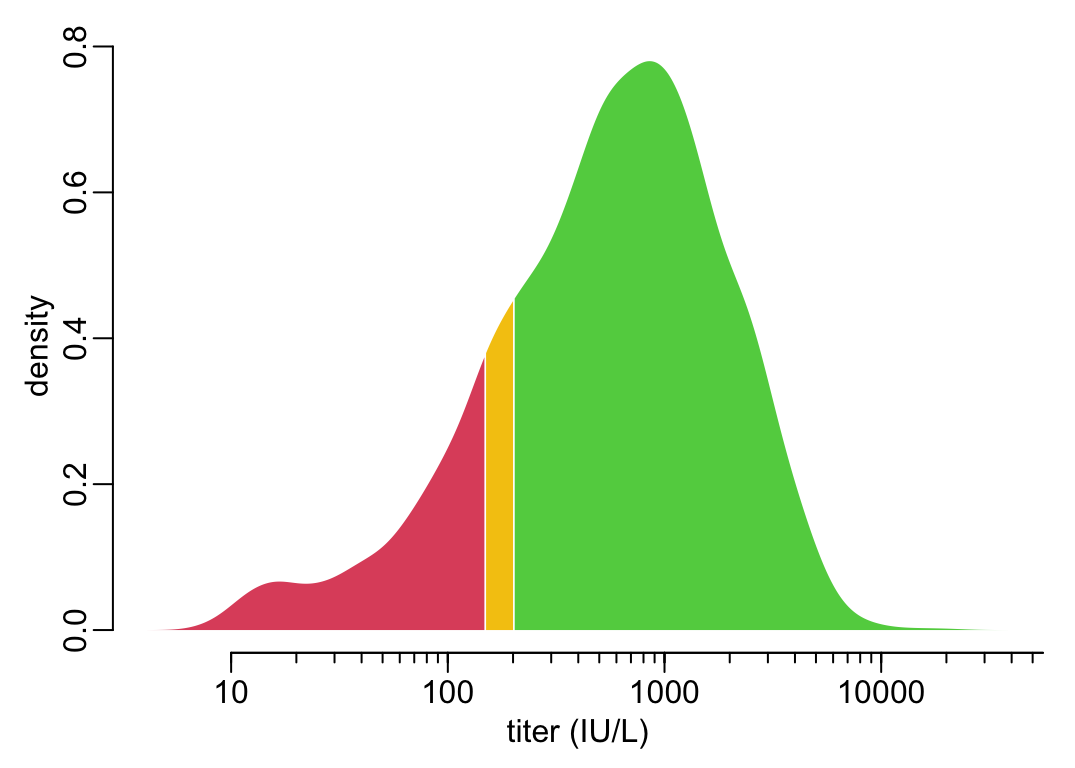
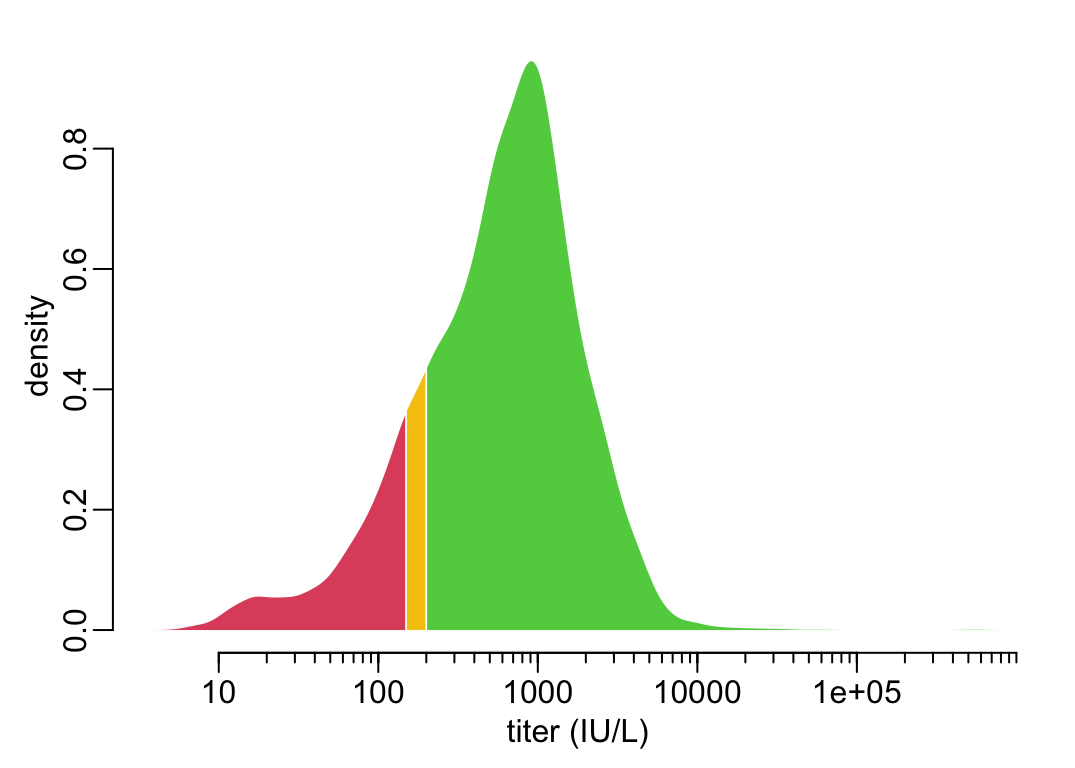
Distributions of titers for the whole dataset

diff --git a/index.html b/index.html
@@ -977,15 +977,15 @@ Figure&nbsp;5: Proportion of female (pink) and male (blue) samples as a function
 </div>
 <p>Plotting the distribution of all the titers, across the 3 time points and the 10 sites:</p>
 <div class="cell" data-layout-align="center">
-<div class="code-copy-outer-scaffold"><div class="sourceCode cell-code" id="cb80"><pre class="sourceCode r code-with-copy"><code class="sourceCode r"><span id="cb80-1"><a href="#cb80-1" aria-hidden="true" tabindex="-1"></a><span class="fu">plot_titers</span>(south)</span></code></pre></div><button title="Copy to Clipboard" class="code-copy-button"><i class="bi"></i></button></div>
+<div class="code-copy-outer-scaffold"><div class="sourceCode cell-code" id="cb80"><pre class="sourceCode r code-with-copy"><code class="sourceCode r"><span id="cb80-1"><a href="#cb80-1" aria-hidden="true" tabindex="-1"></a><span class="fu">plot_titers</span>(dataset)</span></code></pre></div><button title="Copy to Clipboard" class="code-copy-button"><i class="bi"></i></button></div>
 <div class="cell-output-display">
-<div id="fig-distribution_titers" class="quarto-float quarto-figure quarto-figure-center anchored" width="537.6" data-fig-align="center">
+<div id="fig-distribution_titers" class="quarto-float quarto-figure quarto-figure-center anchored" data-fig-align="center">
 <figure class="quarto-float quarto-float-fig figure">
 <div aria-describedby="fig-distribution_titers-caption-0ceaefa1-69ba-4598-a22c-09a6ac19f8ca">
-<img src="index_files/figure-html/fig-distribution_titers-1.png" id="fig-distribution_titers" class="img-fluid quarto-figure quarto-figure-center anchored figure-img" width="537">
+<img src="index_files/figure-html/fig-distribution_titers-1.png" class="img-fluid quarto-figure quarto-figure-center figure-img" width="537">
 </div>
-<figcaption class="quarto-float-caption-bottom quarto-float-caption quarto-float-fig quarto-uncaptioned" id="fig-distribution_titers-caption-0ceaefa1-69ba-4598-a22c-09a6ac19f8ca">
-Figure&nbsp;6
+<figcaption class="quarto-float-caption-bottom quarto-float-caption quarto-float-fig" id="fig-distribution_titers-caption-0ceaefa1-69ba-4598-a22c-09a6ac19f8ca">
+Figure&nbsp;6: Distribution of titers across all sites and time points. Colors show negative (red), equivocal (orange) and positive (green).
 </figcaption>
 </figure>
 </div>
@@ -993,16 +993,16 @@ Figure&nbsp;6
 </div>
 <p>The corresponding proportions in each of the 3 categories of titer values are the following:</p>
 <div class="cell" data-layout-align="center">
-<div class="code-copy-outer-scaffold"><div class="sourceCode cell-code" id="cb81"><pre class="sourceCode r code-with-copy"><code class="sourceCode r"><span id="cb81-1"><a href="#cb81-1" aria-hidden="true" tabindex="-1"></a>south <span class="sc">|&gt;</span> </span>
+<div class="code-copy-outer-scaffold"><div class="sourceCode cell-code" id="cb81"><pre class="sourceCode r code-with-copy"><code class="sourceCode r"><span id="cb81-1"><a href="#cb81-1" aria-hidden="true" tabindex="-1"></a>dataset <span class="sc">|&gt;</span> </span>
 <span id="cb81-2"><a href="#cb81-2" aria-hidden="true" tabindex="-1"></a>  <span class="fu">group_by</span>(conclusion) <span class="sc">|&gt;</span> </span>
 <span id="cb81-3"><a href="#cb81-3" aria-hidden="true" tabindex="-1"></a>  <span class="fu">tally2</span>()</span></code></pre></div><button title="Copy to Clipboard" class="code-copy-button"><i class="bi"></i></button></div>
 <div class="cell-output cell-output-stdout">
 <pre><code># A tibble: 3 × 3
   conclusion     n  prop
   &lt;chr&gt;      &lt;int&gt; &lt;dbl&gt;
-1 Equi         297  5.33
-2 Neg          879 15.8 
-3 Pos         4397 78.9 </code></pre>
+1 Equi         453  4.90
+2 Neg         1290 13.9 
+3 Pos         7510 81.2 </code></pre>
 </div>
 </div>
 <p>The distributions of all the titers across the 10 sites for each time point separately:</p>
@@ -1010,19 +1010,19 @@ Figure&nbsp;6
 <div class="code-copy-outer-scaffold"><div class="sourceCode cell-code" id="cb83"><pre class="sourceCode r code-with-copy"><code class="sourceCode r"><span id="cb83-1"><a href="#cb83-1" aria-hidden="true" tabindex="-1"></a>timepoints <span class="ot">&lt;-</span> <span class="fu">c</span>(<span class="fu">paste</span>(<span class="st">"Dec"</span>, <span class="fu">c</span>(<span class="dv">2019</span>, <span class="dv">2022</span>)), <span class="st">"Apr 2024"</span>)</span>
 <span id="cb83-2"><a href="#cb83-2" aria-hidden="true" tabindex="-1"></a></span>
 <span id="cb83-3"><a href="#cb83-3" aria-hidden="true" tabindex="-1"></a>opar <span class="ot">&lt;-</span> <span class="fu">par2</span>(<span class="at">mfrow =</span> <span class="fu">c</span>(<span class="dv">3</span>, <span class="dv">1</span>), <span class="at">plt =</span> <span class="fu">c</span>(.<span class="dv">13</span>, .<span class="dv">97</span>, .<span class="dv">18</span>, .<span class="dv">95</span>))</span>
-<span id="cb83-4"><a href="#cb83-4" aria-hidden="true" tabindex="-1"></a>south <span class="sc">|&gt;</span> </span>
+<span id="cb83-4"><a href="#cb83-4" aria-hidden="true" tabindex="-1"></a>dataset <span class="sc">|&gt;</span> </span>
 <span id="cb83-5"><a href="#cb83-5" aria-hidden="true" tabindex="-1"></a>  <span class="fu">group_by</span>(time_point) <span class="sc">|&gt;</span> </span>
 <span id="cb83-6"><a href="#cb83-6" aria-hidden="true" tabindex="-1"></a>  <span class="fu">group_split</span>() <span class="sc">|&gt;</span> </span>
-<span id="cb83-7"><a href="#cb83-7" aria-hidden="true" tabindex="-1"></a>  <span class="fu">walk2</span>(timepoints, <span class="sc">~</span> <span class="fu">plot_titers</span>(.x, .y, <span class="at">xlim =</span> <span class="fu">c</span>(.<span class="dv">5</span>, <span class="fl">4.5</span>), <span class="at">ylim =</span> <span class="fu">c</span>(<span class="dv">0</span>, .<span class="dv">8</span>)))</span>
+<span id="cb83-7"><a href="#cb83-7" aria-hidden="true" tabindex="-1"></a>  <span class="fu">walk2</span>(timepoints, <span class="sc">~</span> <span class="fu">plot_titers</span>(.x, .y, <span class="at">xlim =</span> <span class="fu">c</span>(.<span class="dv">5</span>, <span class="fl">4.5</span>), <span class="at">ylim =</span> <span class="fu">c</span>(<span class="dv">0</span>, <span class="fl">1.15</span>)))</span>
 <span id="cb83-8"><a href="#cb83-8" aria-hidden="true" tabindex="-1"></a><span class="fu">par</span>(opar)</span></code></pre></div><button title="Copy to Clipboard" class="code-copy-button"><i class="bi"></i></button></div>
 <div class="cell-output-display">
-<div id="fig-distribution_titers_timepoints" class="quarto-float quarto-figure quarto-figure-center anchored" width="376.32" data-fig-align="center">
+<div id="fig-distribution_titers_timepoints" class="quarto-float quarto-figure quarto-figure-center anchored" data-fig-align="center">
 <figure class="quarto-float quarto-float-fig figure">
 <div aria-describedby="fig-distribution_titers_timepoints-caption-0ceaefa1-69ba-4598-a22c-09a6ac19f8ca">
-<img src="index_files/figure-html/fig-distribution_titers_timepoints-1.png" id="fig-distribution_titers_timepoints" class="img-fluid quarto-figure quarto-figure-center anchored figure-img" width="376">
+<img src="index_files/figure-html/fig-distribution_titers_timepoints-1.png" class="img-fluid quarto-figure quarto-figure-center figure-img" width="376">
 </div>
-<figcaption class="quarto-float-caption-bottom quarto-float-caption quarto-float-fig quarto-uncaptioned" id="fig-distribution_titers_timepoints-caption-0ceaefa1-69ba-4598-a22c-09a6ac19f8ca">
-Figure&nbsp;7
+<figcaption class="quarto-float-caption-bottom quarto-float-caption quarto-float-fig" id="fig-distribution_titers_timepoints-caption-0ceaefa1-69ba-4598-a22c-09a6ac19f8ca">
+Figure&nbsp;7: Distribution of titers across all sites for the 3 time points. Colors show negative (red), equivocal (orange) and positive (green).
 </figcaption>
 </figure>
 </div>
@@ -1030,7 +1030,7 @@ Figure&nbsp;7
 </div>
 <p>The corresponding proportions in each of the 3 categories of titer values and for each time point are the following:</p>
 <div class="cell" data-layout-align="center">
-<div class="code-copy-outer-scaffold"><div class="sourceCode cell-code" id="cb84"><pre class="sourceCode r code-with-copy"><code class="sourceCode r"><span id="cb84-1"><a href="#cb84-1" aria-hidden="true" tabindex="-1"></a>south <span class="sc">|&gt;</span> </span>
+<div class="code-copy-outer-scaffold"><div class="sourceCode cell-code" id="cb84"><pre class="sourceCode r code-with-copy"><code class="sourceCode r"><span id="cb84-1"><a href="#cb84-1" aria-hidden="true" tabindex="-1"></a>dataset <span class="sc">|&gt;</span> </span>
 <span id="cb84-2"><a href="#cb84-2" aria-hidden="true" tabindex="-1"></a>  <span class="fu">group_by</span>(time_point, conclusion) <span class="sc">|&gt;</span> </span>
 <span id="cb84-3"><a href="#cb84-3" aria-hidden="true" tabindex="-1"></a>  <span class="fu">tally2</span>() <span class="sc">|&gt;</span> </span>
 <span id="cb84-4"><a href="#cb84-4" aria-hidden="true" tabindex="-1"></a>  <span class="fu">pivot_wider</span>(<span class="at">id_cols =</span> <span class="sc">-</span>n, <span class="at">names_from =</span> time_point, <span class="at">values_from =</span> prop)</span></code></pre></div><button title="Copy to Clipboard" class="code-copy-button"><i class="bi"></i></button></div>
@@ -1038,9 +1038,9 @@ Figure&nbsp;7
 <pre><code># A tibble: 3 × 4
   conclusion    T1    T2    T3
   &lt;chr&gt;      &lt;dbl&gt; &lt;dbl&gt; &lt;dbl&gt;
-1 Equi         4.8  5.32  5.93
-2 Neg         12.0 19.6  16.2 
-3 Pos         83.2 75.1  77.8 </code></pre>
+1 Equi        4.83  4.47  5.93
+2 Neg        11.4  15.5  16.2 
+3 Pos        83.8  80.1  77.8 </code></pre>
 </div>
 </div>
 <section id="age-profile" class="level3" data-number="7.1">
